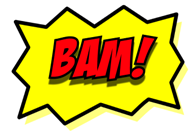
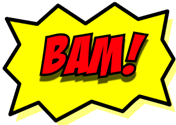
custom button finally looks like it should

diff --git a/styles/forms.module.css b/styles/forms.module.css
@@ -20,6 +20,22 @@
     margin: 10px 5px;
 }
 
+.signupForm::before,
+.loginForm::before {
+    content: '';
+    position: absolute;
+    bottom: 80%;
+    left: 50%;
+    width: 100px;
+    height: 100px;
+    background-image: url('../assets/img/circle_logo.PNG');
+    background-size: cover;
+    background-repeat: no-repeat;
+    transform: translate(-50%, -50%);
+    border-bottom: inherit;
+    border-bottom-color: transparent;
+}
+
 .applicationForm::before {
     content: '';
     position: absolute;
@@ -71,6 +87,18 @@
     margin-top: 15px;
 	display: flex;
 	justify-content: center;
+}
+
+.formButton {
+    border: none;
+    background-color: white;
+}
+
+.formButton div {
+    height: 70px;
+    width: 100px;
+    background-image: url('../assets/img/customButton.png');
+    background-size: cover;
 }
 
 /* Application Form Styling */

diff --git a/components/CustomButton.tsx b/components/CustomButton.tsx
@@ -1,10 +1,12 @@
 import { Button } from "react-bootstrap";
 import "bootstrap/dist/css/bootstrap.min.css";
-import styles from "../styles/custombtn.module.css";
+import styles from "../styles/forms.module.css";
 
 const CustomButton: React.FC<{ onClick?: () => void }> = (props) => {
 	return (
-		<button className={styles.customBtn} type="submit" onClick={props.onClick} />
+		<button className={styles.formButton} type="submit" onClick={props.onClick}>
+			<div className={styles.formButton} />
+		</button>
 	);
 };
 
